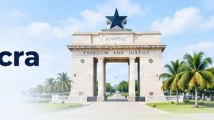
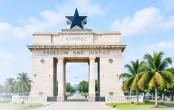
fix(ecosystem): refine clean corner watermarks and scroll margin offset

diff --git a/public/index.html b/public/index.html
@@ -87,7 +87,7 @@
   <link rel="stylesheet" href="https://unpkg.com/leaflet@1.9.4/dist/leaflet.css" integrity="sha256-p4NxAoJBhIIN+hmNHrzRCf9tD/miZyoHS5obTRR9BMY=" crossorigin=""/>
 
   <!-- Core CSS -->
-  <link rel="stylesheet" href="/css/style.css?v=115">
+  <link rel="stylesheet" href="/css/style.css?v=116">
   <link rel="stylesheet" href="/css/components.css?v=100">
 
   <!-- Leaflet Map JS -->
@@ -131,7 +131,7 @@
   <script src="/js/components/mobileNav.js?v=106" defer></script>
   <script src="/js/components/footer.js?v=106" defer></script>
   <script src="/js/components/chatbot.js?v=106" defer></script>
-  <script src="/js/views/homeView.js?v=143" defer></script>
+  <script src="/js/views/homeView.js?v=144" defer></script>
   <script src="/js/views/directoryView.js?v=106" defer></script>
   <script src="/js/views/schoolDetailView.js?v=106" defer></script>
   <script src="/js/views/compareView.js?v=106" defer></script>

diff --git a/public/js/views/homeView.js b/public/js/views/homeView.js
@@ -142,10 +142,10 @@ const HomeView = {
       <section id="section-portal-cards" class="eco-v3-section">
         <!-- Ghana Flag & Arch Corner Watermarks -->
         <div class="eco-v3-flag-corner" aria-hidden="true">
-          <img src="/assets/images/portals/eco_v3_flag.webp" alt="Ghana Flag Emblem" class="eco-v3-flag-img">
+          <img src="/assets/images/portals/eco_v3_flag.webp?v=2" alt="Ghana Flag Emblem" class="eco-v3-flag-img">
         </div>
         <div class="eco-v3-arch-corner" aria-hidden="true">
-          <img src="/assets/images/portals/eco_v3_arch.webp" alt="Independence Arch Greater Accra" class="eco-v3-arch-img">
+          <img src="/assets/images/portals/eco_v3_arch.webp?v=2" alt="Independence Arch Greater Accra" class="eco-v3-arch-img">
         </div>
 
         <div class="container eco-v3-container">

diff --git a/public/css/style.css b/public/css/style.css
@@ -2701,6 +2701,7 @@ button {
   padding: 4.75rem 1.5rem 4.5rem;
   border-bottom: 1px solid #e2e8f0;
   overflow: hidden;
+  scroll-margin-top: 75px;
 }
 
 .eco-v3-flag-corner {
